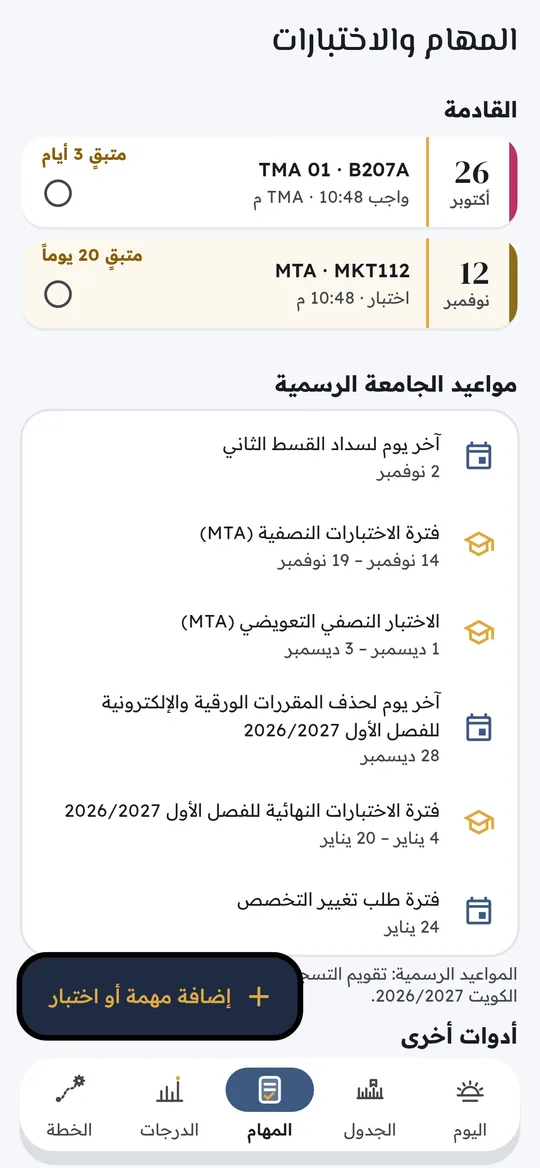
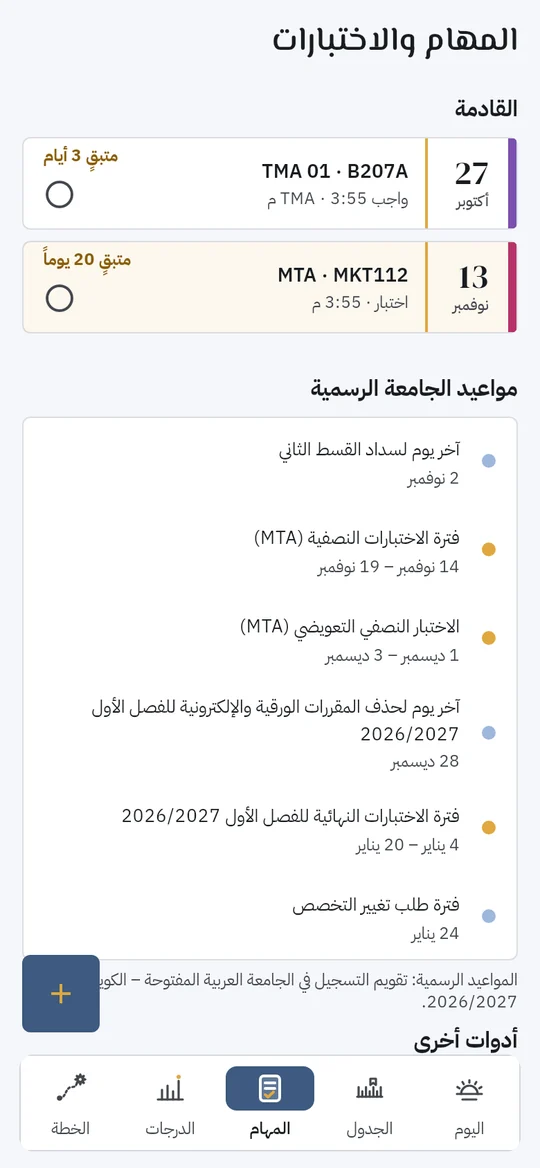
Site: Plex body font, ruled corners, screens in the new app look
Claude-Session: https://claude.ai/code/session_014dUkiHk6zBUj9BswWQx2Hk

diff --git a/index.html b/index.html
@@ -11,10 +11,10 @@
 <link rel="icon" href="icon.svg" type="image/svg+xml">
 <link rel="preconnect" href="https://fonts.googleapis.com">
 <link rel="preconnect" href="https://fonts.gstatic.com" crossorigin>
-<link rel="stylesheet" href="https://fonts.googleapis.com/css2?family=DM+Serif+Display&family=El+Messiri:wght@600;700&family=Readex+Pro:wght@400;500;600&display=swap">
+<link rel="stylesheet" href="https://fonts.googleapis.com/css2?family=DM+Serif+Display&family=El+Messiri:wght@600;700&family=IBM+Plex+Sans+Arabic:wght@400;500;600&display=swap">
 <style>
 :root{--slate:#3D5A80;--night:#1E2B42;--gold:#E0A83F;--gold-text:#8A5E0E;--bg:#ffffff;--soft:#eef2f7;--ink:#1b2433;--muted:#5a6577;--line:#dde3eb;--link:#3D5A80;--card:#ffffff;
---display:"El Messiri","DM Serif Display",Georgia,serif;--body:"Readex Pro",Tahoma,"Noto Sans Arabic",Arial,sans-serif}
+--display:"El Messiri","DM Serif Display",Georgia,serif;--body:"IBM Plex Sans Arabic",Tahoma,"Noto Sans Arabic",Arial,sans-serif}
 @media (prefers-color-scheme:dark){:root{--bg:#11161e;--soft:#1a2230;--ink:#e8ecf2;--muted:#a1abba;--line:#2a3342;--link:#9cb8de;--card:#151b25;--gold-text:#E9B95A;color-scheme:dark}}
 *{box-sizing:border-box}
 body{margin:0;background:var(--bg);color:var(--ink);font:17px/1.7 var(--body)}
@@ -37,7 +37,7 @@ h1 em{font-style:normal;color:var(--gold)}
 .ruler{display:block;width:120px;height:14px;margin:0 0 18px}
 .hero p{margin:0 0 22px;opacity:.93;font-size:19px;max-width:34em}
 .cta{display:flex;flex-wrap:wrap;gap:12px;align-items:center}
-.btn{display:inline-block;padding:12px 20px;border-radius:12px;font-weight:600;text-decoration:none}
+.btn{display:inline-block;padding:12px 20px;border-radius:6px;font-weight:600;text-decoration:none}
 .btn:focus-visible{outline:3px solid var(--gold);outline-offset:2px}
 .btn-gold{background:var(--gold);color:#1b2433}
 .btn-ghost{border:1.5px solid rgba(255,255,255,.6);color:#fff}
@@ -54,7 +54,7 @@ h2{font-size:clamp(26px,4vw,32px);line-height:1.35;margin:0 0 8px}
 .tabs figcaption b{display:block;font-size:16px}
 .tabs figcaption span{display:block;color:var(--muted);font-size:14px;line-height:1.5}
 .grid{display:grid;grid-template-columns:repeat(auto-fit,minmax(250px,1fr));gap:18px}
-.card{background:var(--card);border:1px solid var(--line);border-radius:16px;padding:20px}
+.card{background:var(--card);border:1px solid var(--line);border-radius:6px;padding:20px}
 .card.new{border-color:var(--gold)}
 .card h3{margin:0 0 6px;font-size:20px;line-height:1.4}
 .card p{margin:0;color:var(--muted);font-size:16px}
@@ -62,7 +62,7 @@ h2{font-size:clamp(26px,4vw,32px);line-height:1.35;margin:0 0 8px}
 .steps{counter-reset:s;display:grid;gap:14px;padding:0;margin:0;list-style:none}
 .steps li{counter-increment:s;display:flex;gap:14px;align-items:flex-start}
 .steps li::before{content:counter(s);flex:none;width:34px;height:34px;border-radius:50%;background:var(--slate);color:#fff;display:grid;place-items:center;font-weight:600}
-.join{background:var(--slate);color:#fff;border-radius:20px;padding:28px;display:grid;gap:12px}
+.join{background:var(--slate);color:#fff;border-radius:10px;padding:28px;display:grid;gap:12px}
 .join p{margin:0;opacity:.93}
 .join ul{margin:0;padding-inline-start:20px}
 .en{direction:ltr;text-align:left}
